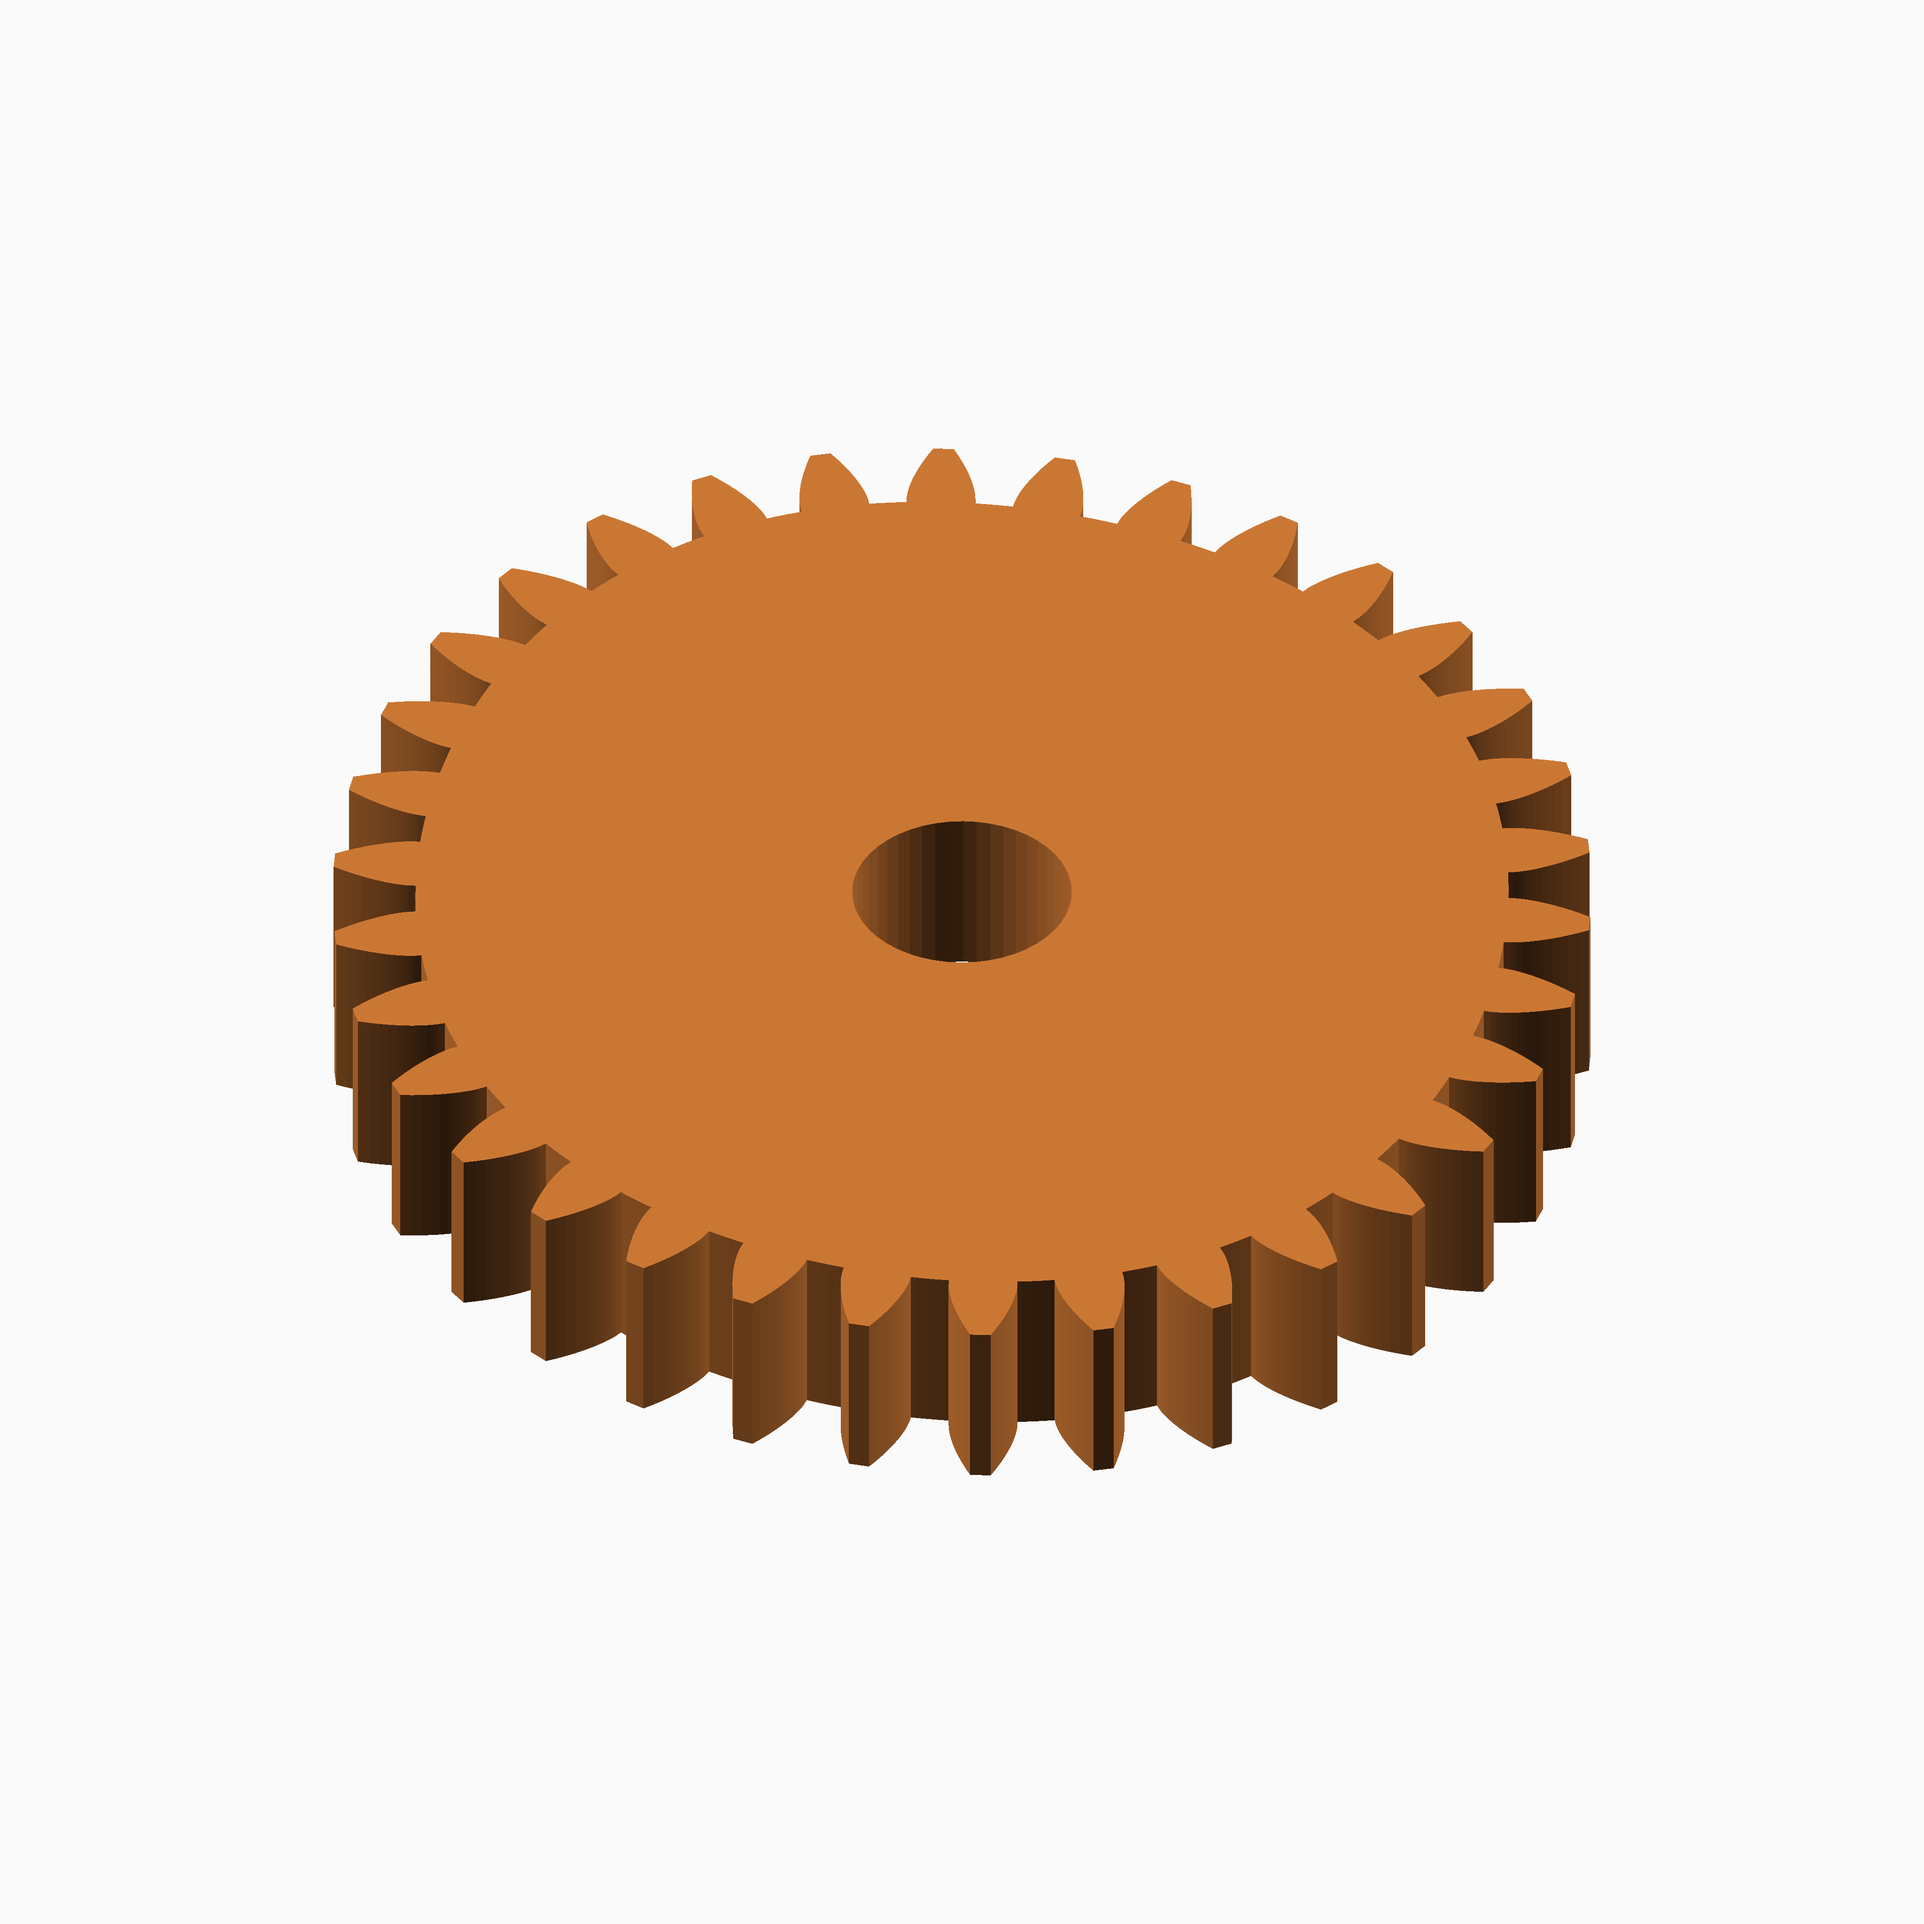
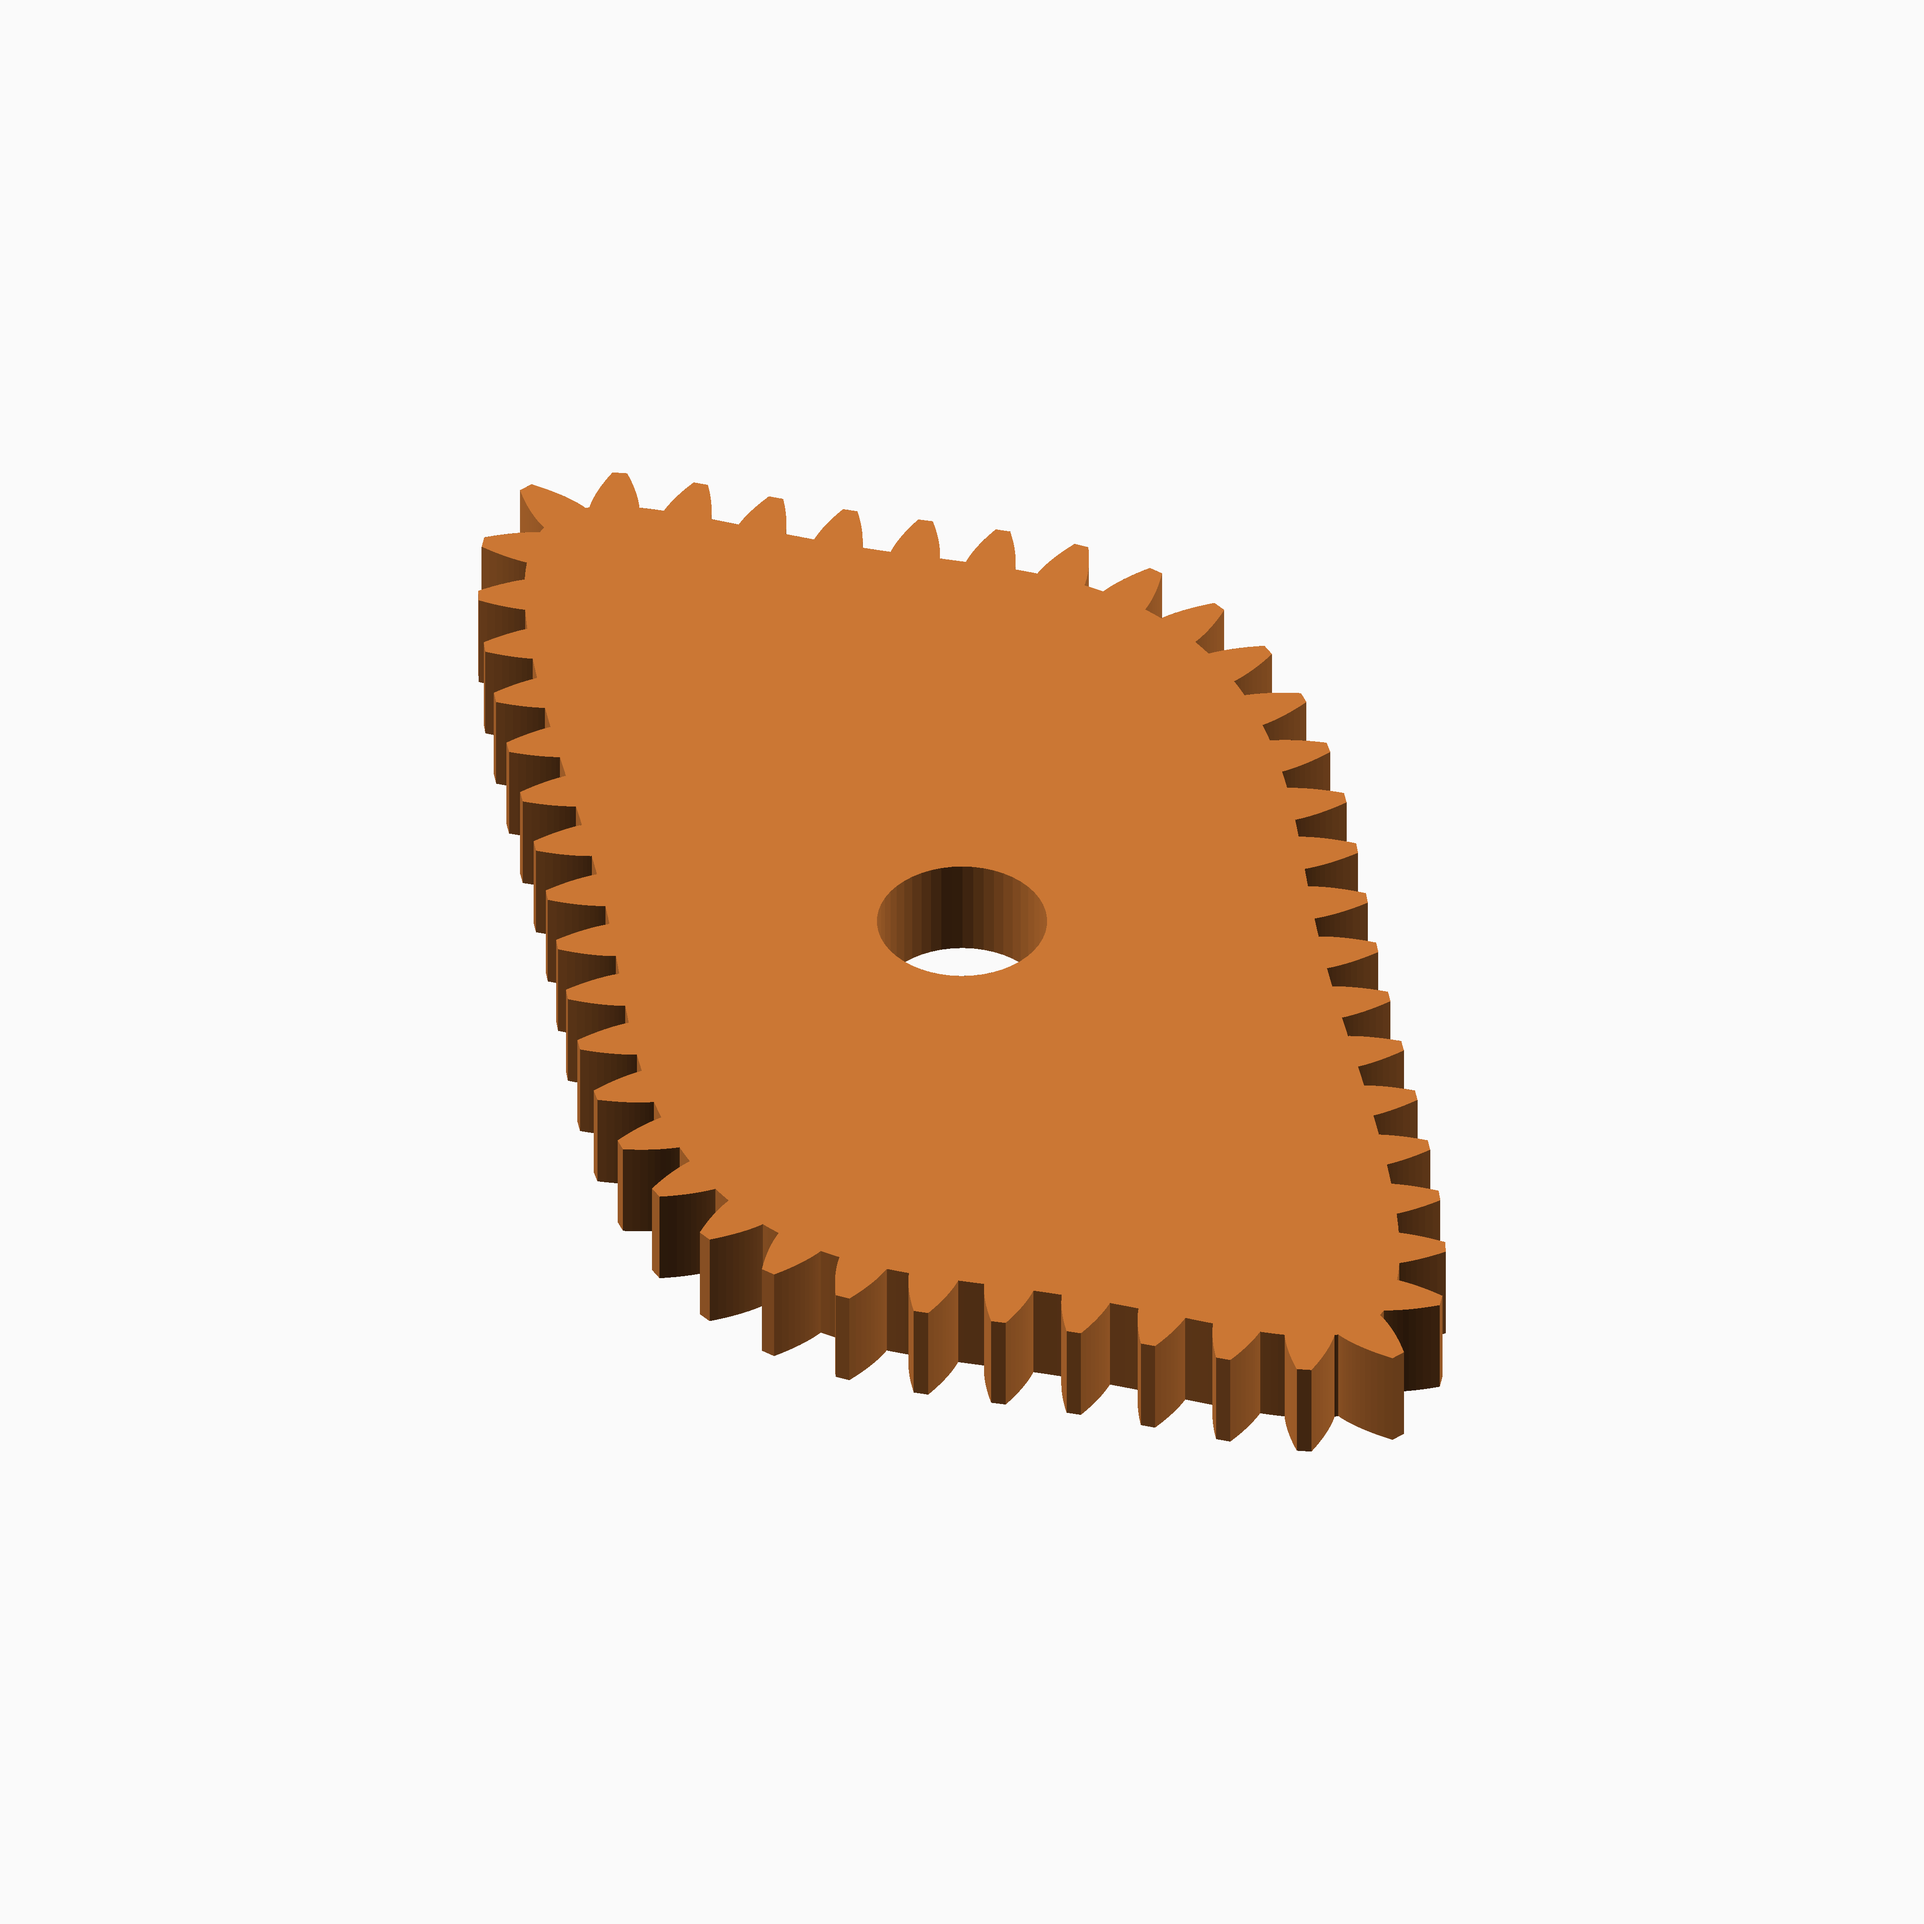
examples: restore Temple Fay butterfly outline

Changed region(s): [[0.1562, 0.2188, 0.8438, 0.7812], [0.4375, 0.4062, 0.5625, 0.5312]]

diff --git a/examples/README.md b/examples/README.md
@@ -475,7 +475,7 @@ tooth scale or body proportions. Spiral pairs remain static references.
 
 > [`temple_fay_body_alternative`](#function-temple_fay_body_alternative): Temple Fay alternative: The contrasting family controls shown as a body.
 
-> [`temple_fay_curve_gear_alternative`](#function-temple_fay_curve_gear_alternative): Temple Fay alternative: Wing 0.05 and fold 0.01 provide a distinct but collision-free alternative to the canonical 0.18/0.05 form. The two Fourier harmonics are varied within the named family, without implying a literal butterfly curve.
+> [`temple_fay_curve_gear_alternative`](#function-temple_fay_curve_gear_alternative): Temple Fay alternative: Wing 0.32 and fold 0.12 restore a pronounced butterfly-like standalone outline. The pair uses a reduced collision-free profile.
 
 > [`temple_fay_curve_gear_pair_alternative`](#function-temple_fay_curve_gear_pair_alternative): Temple Fay alternative pair: The alternative curve and its mate meshed in contact for inspection.
 
@@ -4777,7 +4777,7 @@ Back to [module description](#module-executable-examples).
 
 
 Source: [`functions/temple_fay/curve_gear_temple_fay_alternative.scad`](functions/temple_fay/curve_gear_temple_fay_alternative.scad)
-Wing 0.05 and fold 0.01 provide a distinct but collision-free alternative to the canonical 0.18/0.05 form. The two Fourier harmonics are varied within the named family, without implying a literal butterfly curve.
+Standalone views use wing 0.32 and fold 0.12 for a pronounced butterfly-like outline. The meshed pair retains wing 0.05 and fold 0.01, the validated collision-free fixture.
 
 **Parameters:**
 
@@ -4797,7 +4797,7 @@ Back to [module description](#module-executable-examples).
 
 
 Source: [`functions/temple_fay/curve_gear_temple_fay_pair_alternative.scad`](functions/temple_fay/curve_gear_temple_fay_pair_alternative.scad)
-Wing 0.05 and fold 0.01 provide a distinct but collision-free alternative to the canonical 0.18/0.05 form. The two Fourier harmonics are varied within the named family, without implying a literal butterfly curve.
+The meshed alternative uses wing 0.05 and fold 0.01, the validated collision-free pair fixture. Its standalone comparison shows the stronger wing 0.32 and fold 0.12 profile.
 
 **Parameters:**
 

diff --git a/docs/temple_fay.md b/docs/temple_fay.md
@@ -53,7 +53,7 @@ The module `Temple Fay` defines the following functions.
 | [![temple fay example preview](../images/functions/temple_fay/curve_gear_temple_fay.png)](../images/functions/temple_fay/curve_gear_temple_fay.png) | [![Temple Fay gear alternative](../images/functions/temple_fay/curve_gear_temple_fay_alternative.png)](../images/functions/temple_fay/curve_gear_temple_fay_alternative.png) |
 
 
-Wing 0.05 and fold 0.01 provide a distinct but collision-free alternative to the canonical 0.18/0.05 form. The two Fourier harmonics are varied within the named family, without implying a literal butterfly curve.
+The default profile uses wing 0.18 and fold 0.05. The example catalogue also shows a stronger standalone winged profile and a reduced pair fixture that passes the engaged-pair collision checks.
 
 
 **Parameters:**
